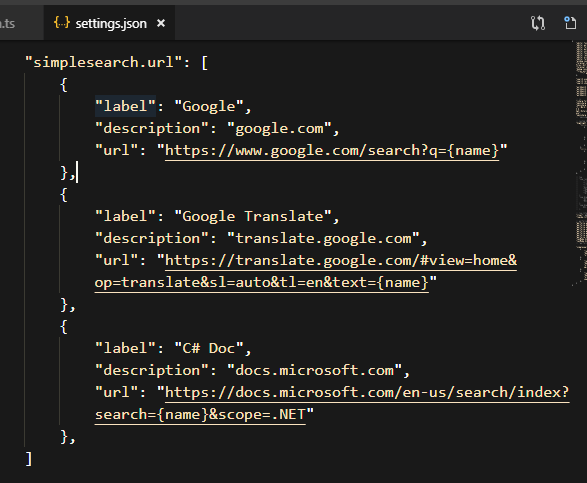
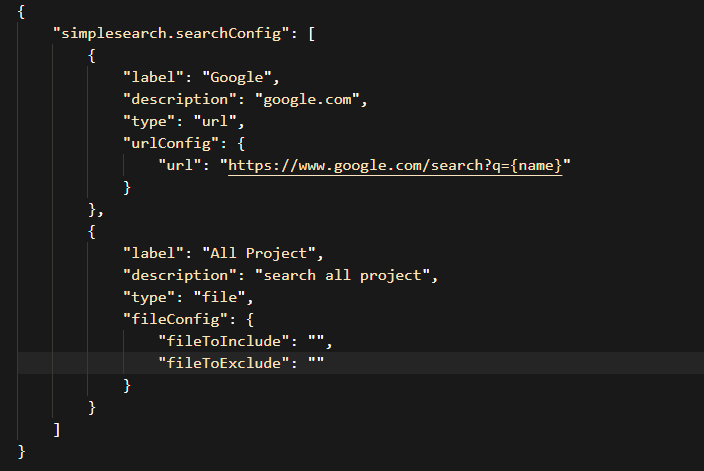
simplesearch: update readme

diff --git a/SimpleSearch/src/simplesearch.ts b/SimpleSearch/src/simplesearch.ts
@@ -39,7 +39,7 @@ export class SimpleSearch {
 
             // make some init
             if (!item.inited) { 
-                // add icon
+                // add icon (ref https://code.visualstudio.com/api/references/icons-in-labels)
                 if (!item.icon || item.icon === "") {
                     let icon = "";
                     if (item.type === "url") {

diff --git a/SimpleSearch/README.md b/SimpleSearch/README.md
@@ -21,6 +21,9 @@ You can configure quick search urls in your settings, like:
 
 ## Release Notes
 
+### 0.0.2
+Support search in project files
+
 ### 0.0.1
 
 Initial release
